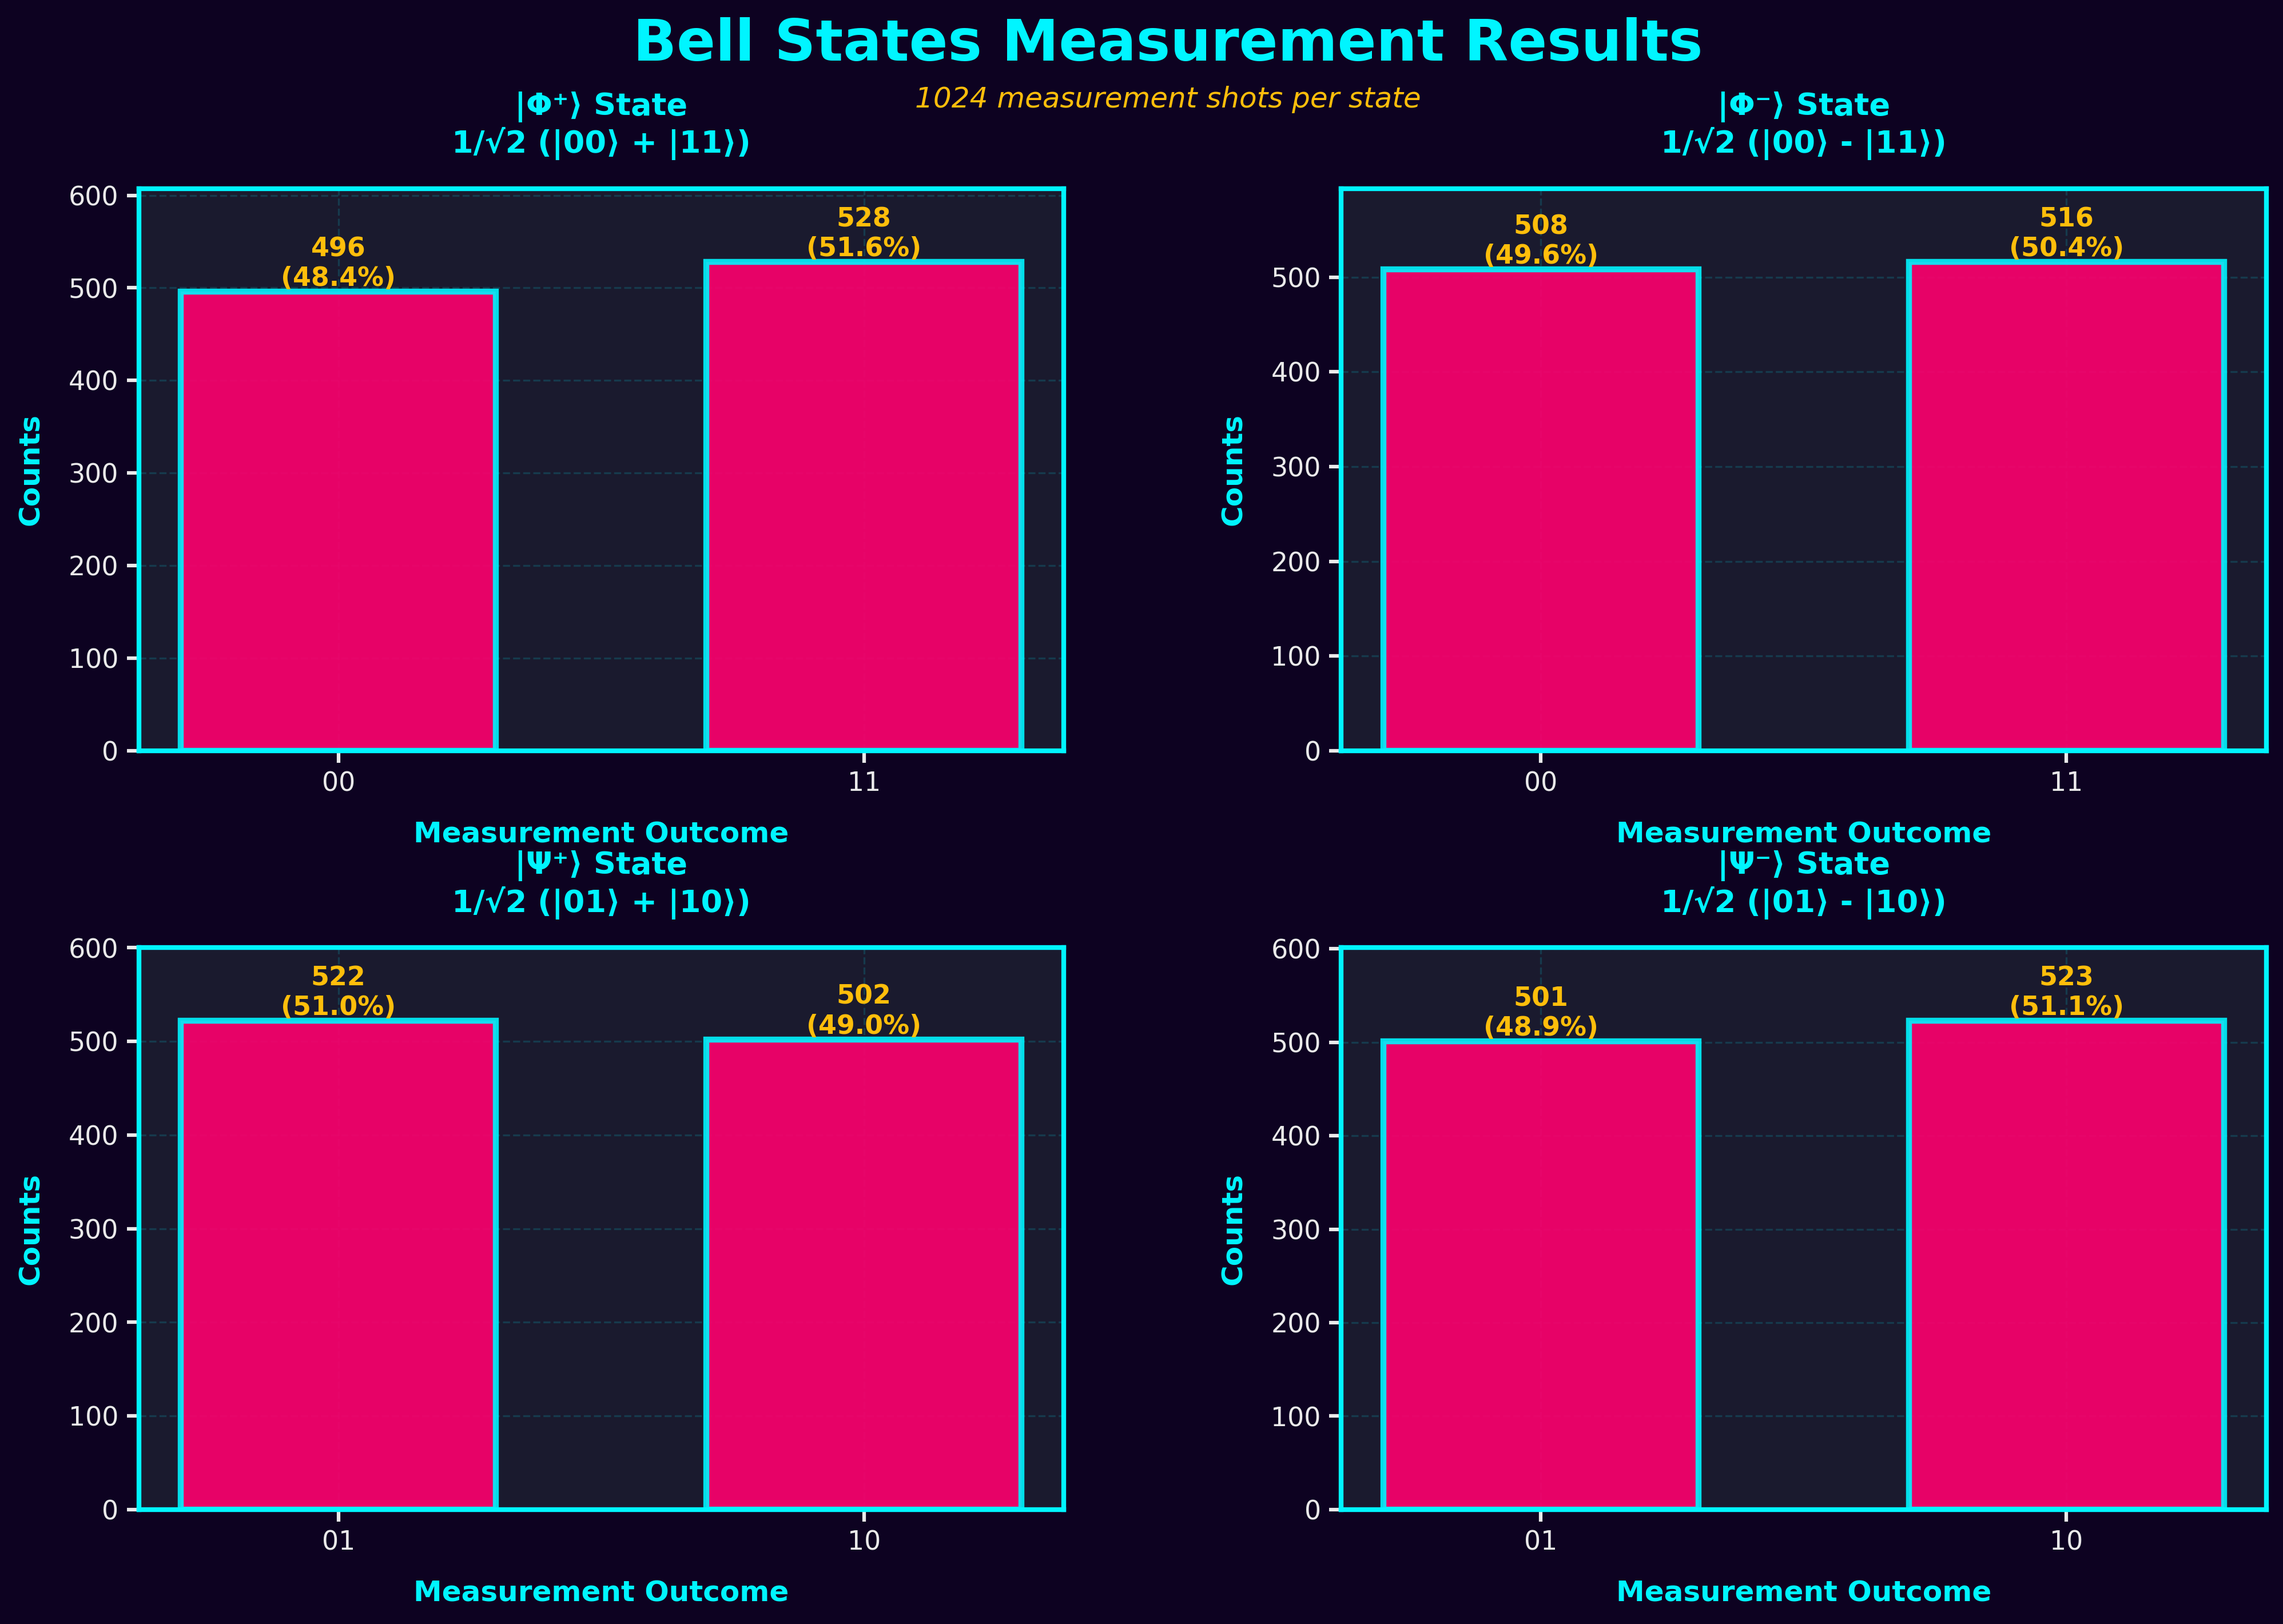
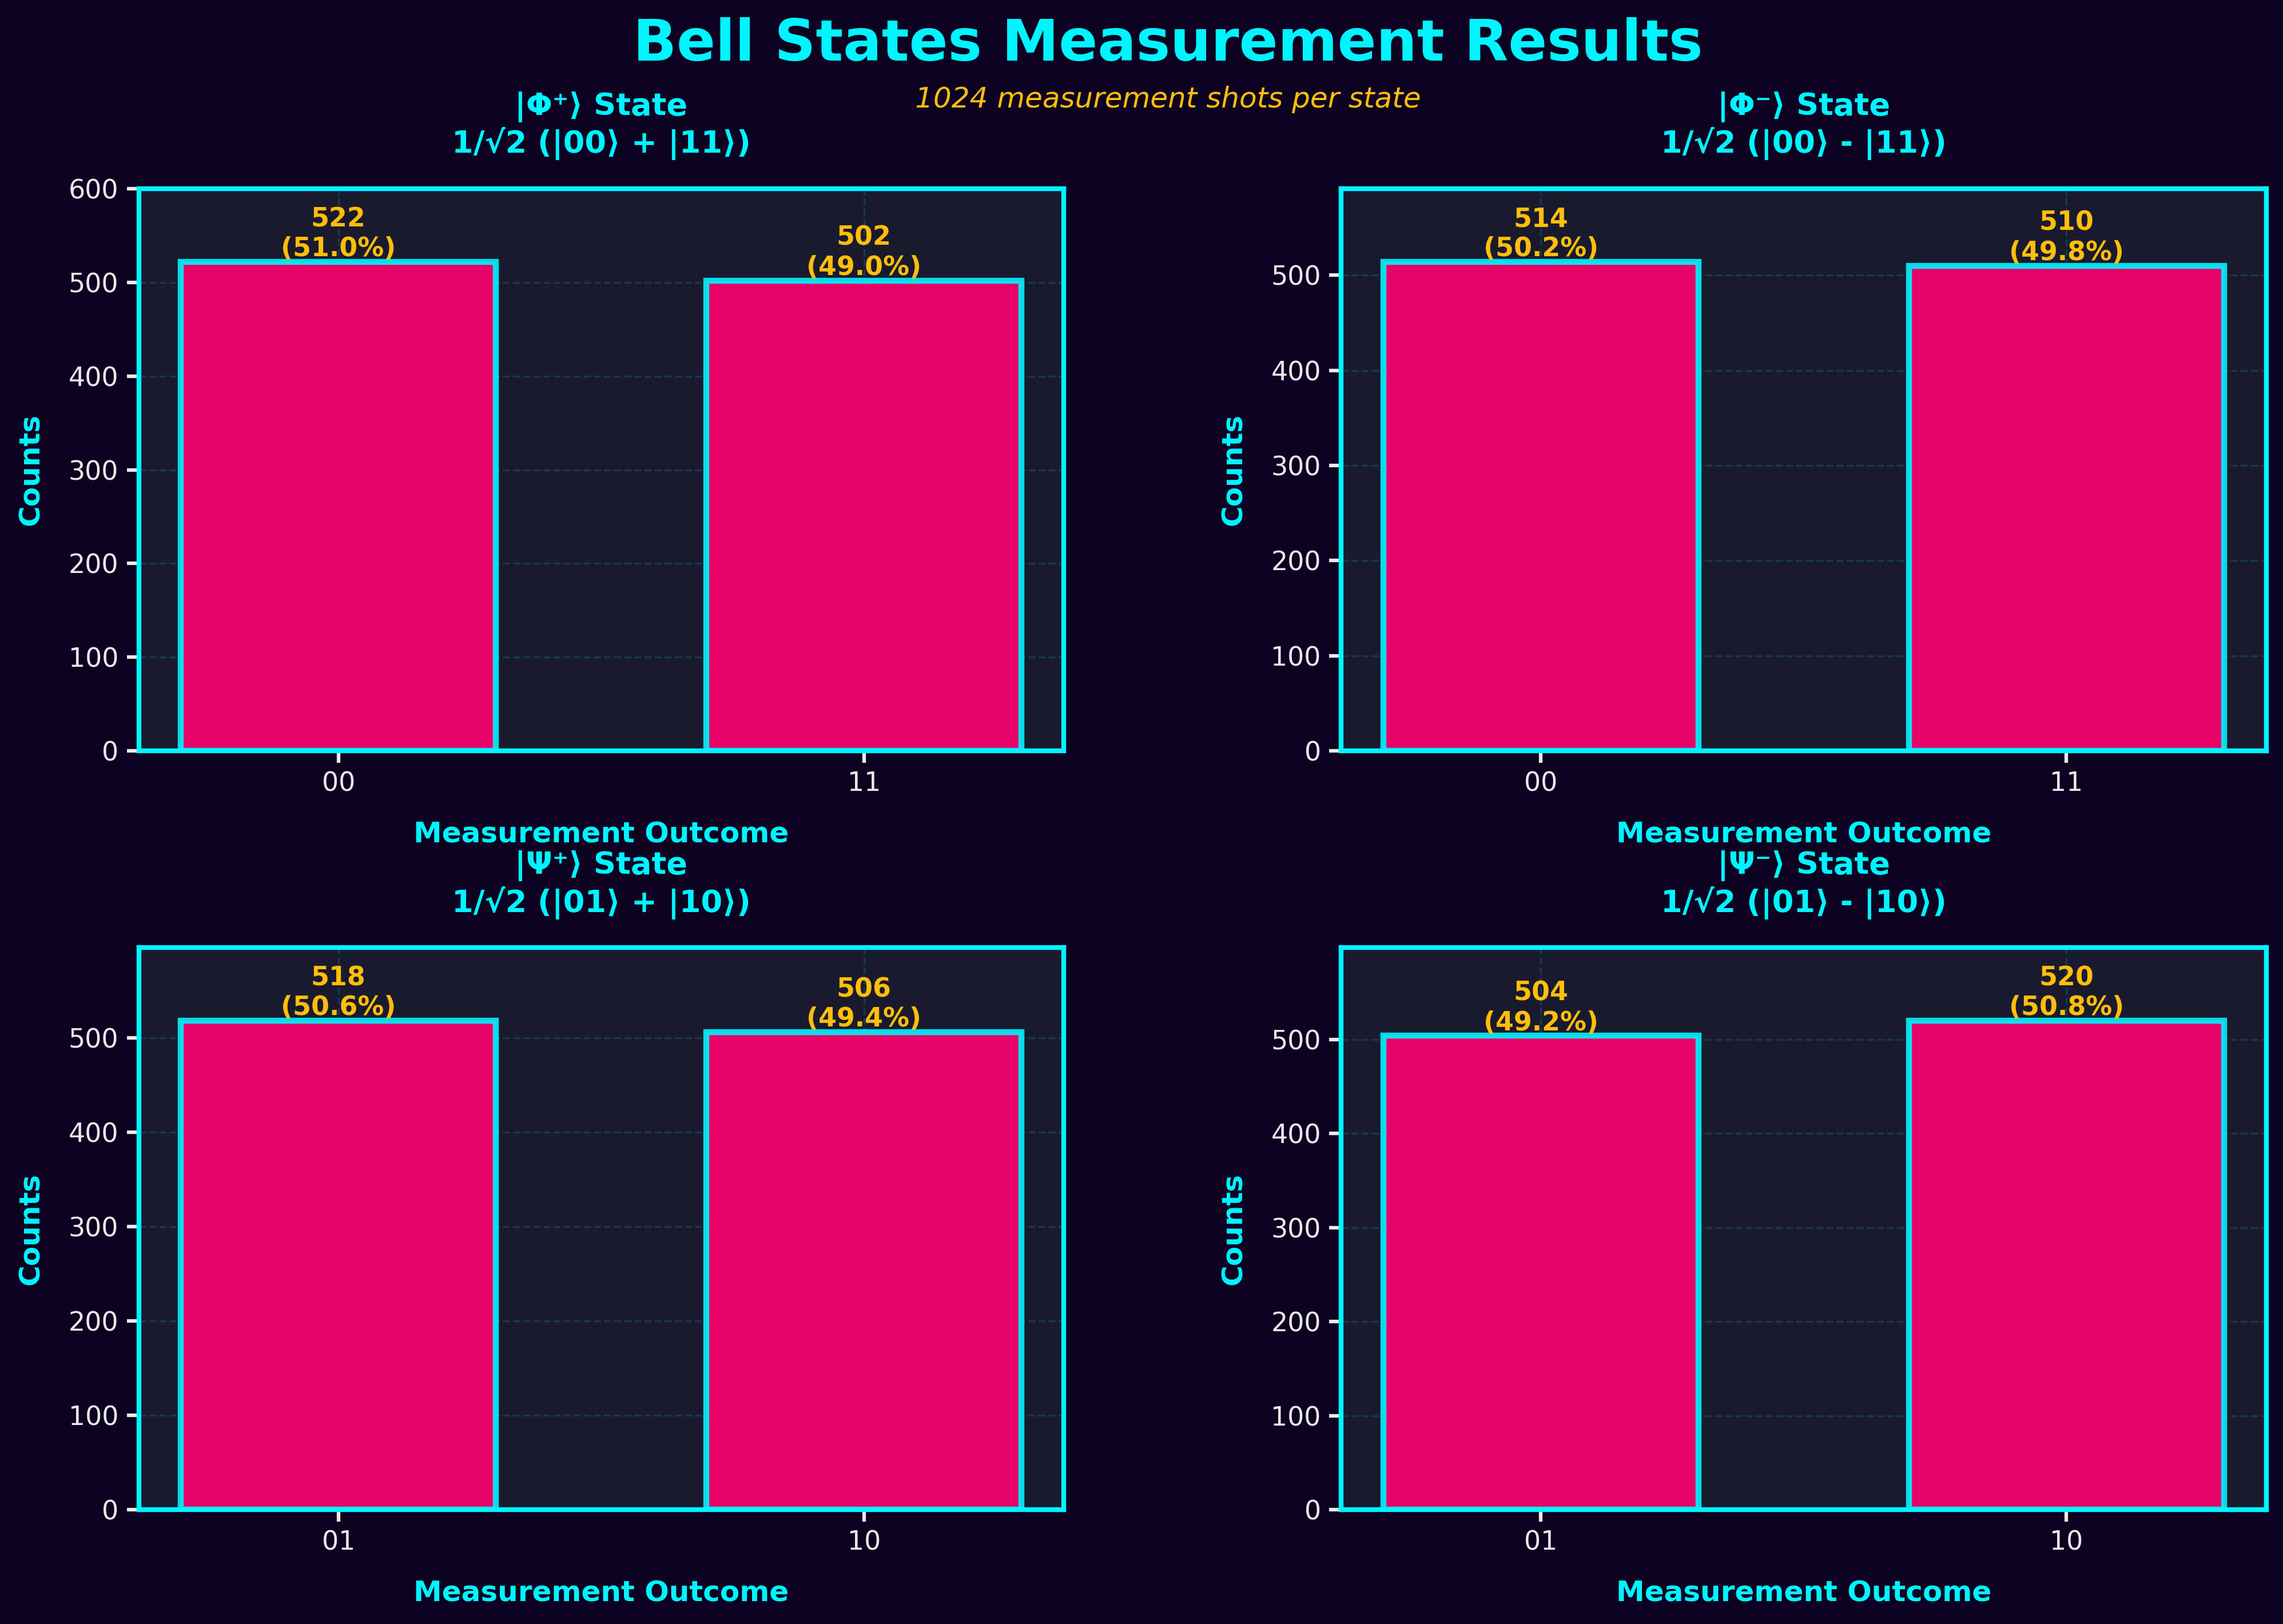
Docs: update README (TOC, usage, results, metrics) and add MIT LICENSE; include regenerated result images

diff --git a/README.md b/README.md
@@ -1,19 +1,29 @@
 # Teletransporte Quântico
 
+![Python](https://img.shields.io/badge/python-3.9%2B-blue.svg) ![Build](https://img.shields.io/badge/build-draft-lightgrey.svg) ![License](https://img.shields.io/badge/license-MIT-green.svg)
+
 Simulação de emaranhamento quântico e protocolo de teletransporte usando Qiskit.
 
 ## Recursos
 
-- **Estados de Bell**: Geração e análise de quatro estados emaranhados maximais
-- **Protocolo de Teletransporte**: Implementação completa de transferência de estado quântico
-- **Visualização**: Resultados gráficos de alto contraste
+- **Estados de Bell** — Geração e análise de quatro estados emaranhados.
+- **Teletransporte** — Implementação do protocolo de teletransporte (3 qubits).
+- **Visualização** — Gráficos gerados em alta resolução na pasta `resultados/`.
 
-## Início Rápido
+## Sumário
 
-```bash
-pip install -r requirements.txt
-python src/main.py
-```
+- [Teletransporte Quântico](#teletransporte-quântico)
+  - [Recursos](#recursos)
+  - [Sumário](#sumário)
+  - [Estrutura do Projeto](#estrutura-do-projeto)
+  - [Instalação](#instalação)
+  - [Uso](#uso)
+  - [Resultados](#resultados)
+    - [1) Estados de Bell](#1-estados-de-bell)
+    - [2) Teletransporte Quântico](#2-teletransporte-quântico)
+      - [Métricas (valores obtidos)](#métricas-valores-obtidos)
+  - [Reprodutibilidade](#reprodutibilidade)
+  - [Requisitos](#requisitos)
 
 ## Estrutura do Projeto
 
@@ -24,11 +34,99 @@ src/
   └── main.py                  # Script de execução
 
 docs/
+  ├── DESAFIO.md               # Enunciado do desafio
   └── THEORY.md                # Fundamentos matemáticos
+ 
+resultados/
+  ├── bell_states.png         # Figura dos Estados de Bell
+  └── teleportation.png       # Figura do teletransporte
+```
+
+## Instalação
+
+Windows (PowerShell):
+
+```powershell
+python -m venv .venv
+.
+.venv\Scripts\Activate.ps1
+pip install -r requirements.txt
+```
+
+Linux / macOS:
+
+```bash
+python3 -m venv .venv
+source .venv/bin/activate
+pip install -r requirements.txt
+```
+
+## Uso
+
+- Executar o pipeline principal:
+
+```bash
+python src/main.py
+```
+
+- Gerar apenas os Estados de Bell:
+
+```bash
+python src/bell_states.py
+```
+
+- Executar o protocolo de teletransporte:
+
+```bash
+python src/quantum_teleportation.py
+```
+
+Os outputs (plots e arquivos gerados) são salvos em `resultados/`.
+
+## Resultados
+
+As figuras geradas pelas simulações estão disponíveis na pasta `resultados/`.
+
+### 1) Estados de Bell
+
+Breve descrição: gera-se os quatro estados de Bell aplicando portas `H` e `CNOT` conforme o padrão. O gráfico abaixo mostra o histograma das contagens obtidas no simulador, evidenciando os picos correspondentes aos pares emaranhados.
+
+![Estados de Bell](resultados/bell_states.png)
+
+Arquivo gerador: `src/bell_states.py` — execute o script para regenerar o plot.
+
+### 2) Teletransporte Quântico
+
+Breve descrição: implementação do protocolo de teletransporte com 3 qubits. O processo inclui preparação do estado, medição de Bell e aplicação das correções condicionais. A imagem a seguir apresenta o resultado final (contagens / fidelidade) obtido no simulador Aer.
+
+![Teletransporte Quântico](resultados/teleportation.png)
+
+Arquivo gerador: `src/quantum_teleportation.py` — execute o script para reproduzir os experimentos.
+
+#### Métricas (valores obtidos)
+
+- `teleportation_fidelity_mean`: 100.0% (1024/1024 medições do qubit final em `|1⟩`).
+- `teleportation_counts` (formato c[2]c[1]c[0]): `{'101': 271, '111': 248, '110': 273, '100': 232}`.
+
+Estados de Bell (contagens, 1024 shots cada):
+
+- `|Φ⁺⟩`: `{'00': 522 (51.0%), '11': 502 (49.0%)}`
+- `|Φ⁻⟩`: `{'00': 514 (50.2%), '11': 510 (49.8%)}`
+- `|Ψ⁺⟩`: `{'01': 518 (50.6%), '10': 506 (49.4%)}`
+- `|Ψ⁻⟩`: `{'01': 504 (49.2%), '10': 520 (50.8%)}`
+
+> Observação: os valores acima foram gerados localmente executando `src/bell_states.py` e `src/quantum_teleportation.py` com `shots=1024` e salvos em `resultados/`.
+
+## Reprodutibilidade
+
+Para regenerar os plots e métricas exatamente como nas execuções testadas:
+
+```bash
+python src/bell_states.py      # Regenera resultados/bell_states.png
+python src/quantum_teleportation.py  # Regenera resultados/teleportation.png e imprime métricas
 ```
 
 ## Requisitos
 
 - Python 3.9+
-- Qiskit, Matplotlib, NumPy (veja requirements.txt)
-
+- Dependências: veja `requirements.txt` (Qiskit, Matplotlib, NumPy)
